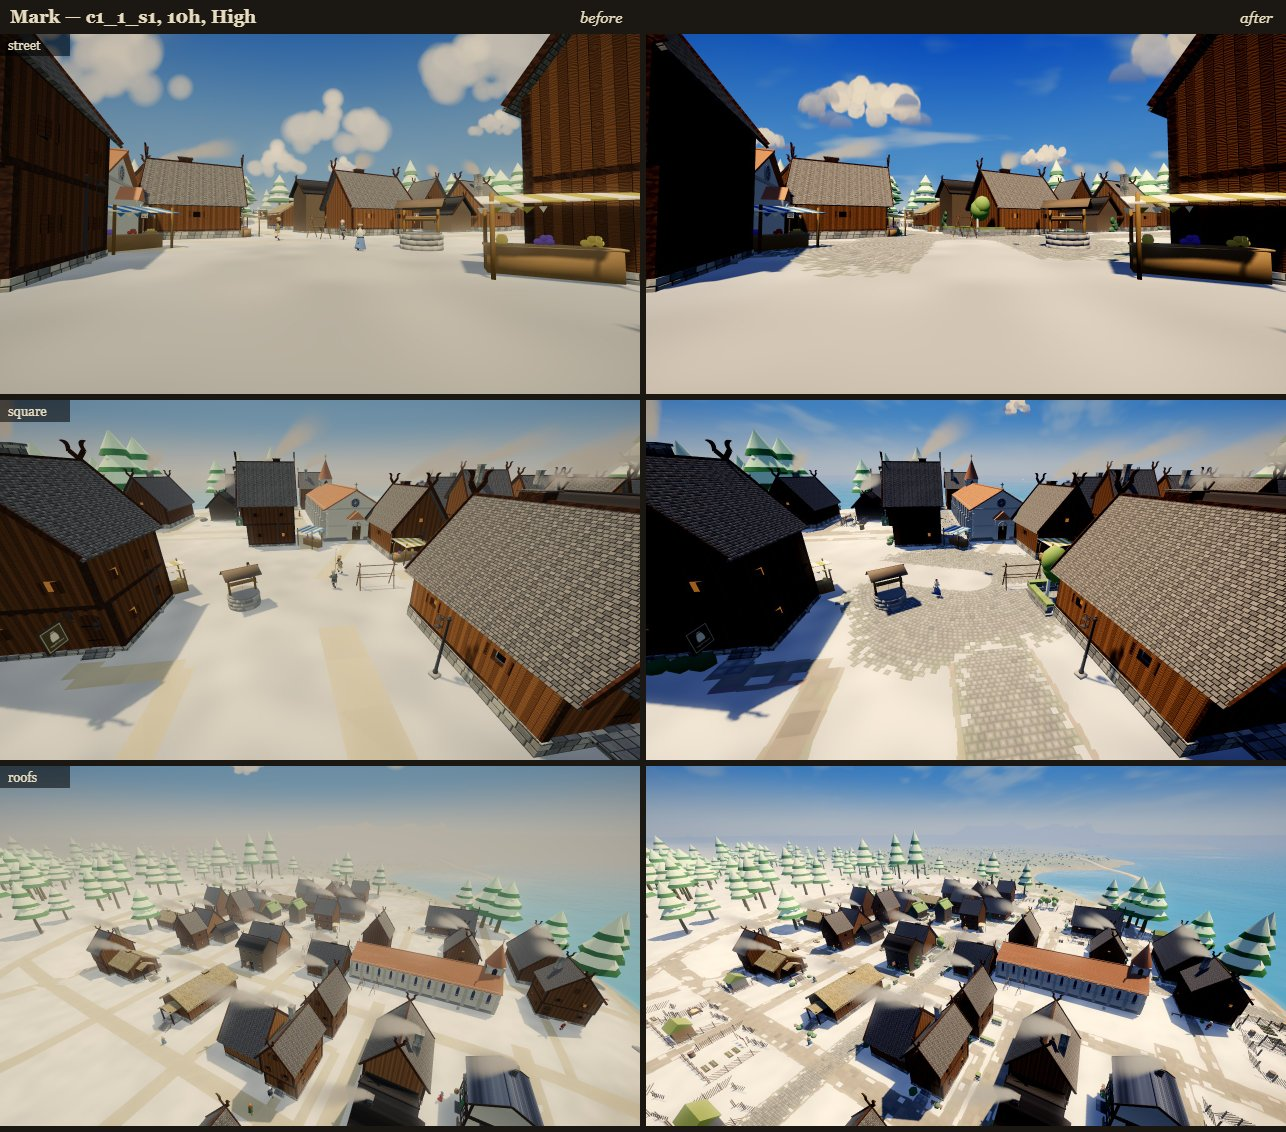
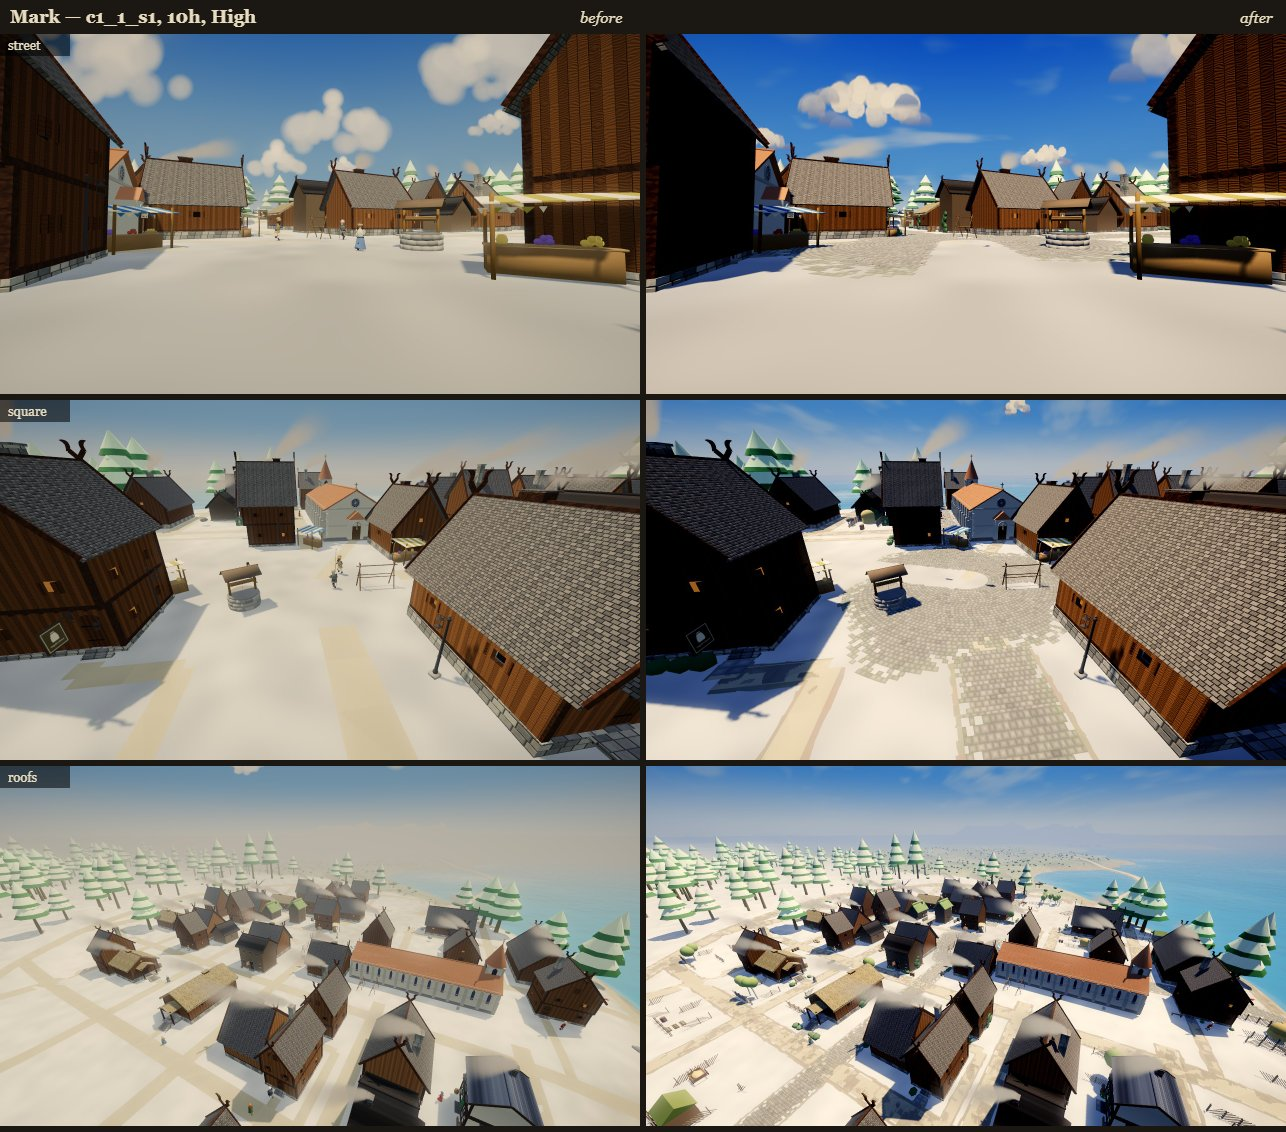
Towns dressed (S2670): sheets re-shot on the final code; devlog

diff --git a/docs/devlog/2670.md b/docs/devlog/2670.md
@@ -52,11 +52,17 @@ every draw the town made, so no name, barrel or person moves, and a reload lays 
 
 **What the full suite found** (the `check` workflow on the branch beside one on main, 26 Nov; main was red on its own on 28 suites that day, so
 only the reds that were the branch's alone are this change's):
-- `beat`: a Dunmore guard stood 387 of 600 s on the night beat. The watch's route grid (`townRoute`) was read when the town was built,
-  before the dressing's walls existed, so a way could run through a wall and leave him against it. Now the pass runs as a job
-  (`townDressJob`, a few houses, a row of the lawns' search or ten paths a step, so the town's build is not one long frame). When it is done,
-  the watch's ways, the directions' grid and the work spots are found again (`S._route`, `S._routeGrid`, `S._beat`, `S._work`), and the grid
-  marks each dress solid with half a metre round it.
+- `beat`: a Dunmore guard stood 387 of 600 s on the night beat. The guards walk to each beat point in a straight line and fall back on the
+  watch's 1 m route grid when they make no headway, and the dressing gave them pockets no way led out of. Gates of 1.2 m and slits left by
+  a wall piece that wasn't clear let a townsperson in, and the grid read them as shut. A cart across a plot's gate shut him in. Patching
+  pockets one at a time (a wider grid margin, a route allowed to step out of it, 2 m gates kept clear, every gap in a wall widened to 2.2 m
+  or closed) freed him but left him stopping 12 to 20 s at a time. So the townsfolk now see through the dressing: `solidAtNpc` is `solidAt`
+  with the dressing's solids skipped (`NPC_THRU_DRESS`, read by `settleSolid`), used by `npcStep` and by every test in `townRoute`. The people walk where
+  they walked before, and only you are stopped by a garden wall or a cart. The 2 m gates, the clear ground at each gate and the 2.2 m rule
+  for gaps stay. The pass also runs as a job now (`townDressJob`: a few houses, a row of the lawns' search or ten paths a step), so a
+  town's build is not one long frame; when it is done, the watch's ways and the work spots are found again.
+  On this machine `beat` fails with the dressing switched off too (a guard over 10 s still; one armourer's door passed once in ten
+  minutes, not twice). With the dressing on, no guard stands over 6 s, and that one door is not passed at all, the same in two runs.
 - `harbour`: every near cluster in `S.lodMeshes` must have a far twin, and the clutter's near clusters have none. The dressing has its own list
   now, `S.dressLod`, by the same near and far rule in `houseLod`.
 - `wayfinding`: every footprint must carry a type. The dressing's solids now carry `bt:'dress'` (the walls `'wall'`).
@@ -66,8 +72,8 @@ only the reds that were the branch's alone are this change's):
 - `panelfocus`: it walked you about 6 m north for each of its panels without bringing you back, so the last walk began 40 m from the square,
   against a garden wall. The suite now starts each walk from the same spot (`tests/panelfocus.test.mjs`, the one suite edited).
 - `f4animals` failed the same two checks with the dressing on and switched off (the Lantern Jelly and the Drifter Squid): not this change.
-- `gateguards`: Carraig Mór's two guards average 13.5 m apart with the dressing and 14.5 without it, both under the suite's 15. The dressing
-  shortens that beat by a metre, but the check is near its edge either way.
+- `gateguards`: Carraig Mór's two guards average 13.5 m apart with the dressing and 14.5 without it, both under the suite's 15. That was
+  before the townsfolk saw through the dressing; their beat is now the one they had without it.
 
 **Paving toned down** (Michael on the first sheets, carried by the producer's session: "Tone paving down first"). He saw what read as
 oversized, even floor tiles laid wall to wall: every street was setts edge to edge, so from the roofs the Gatelands' centre went grey and the
